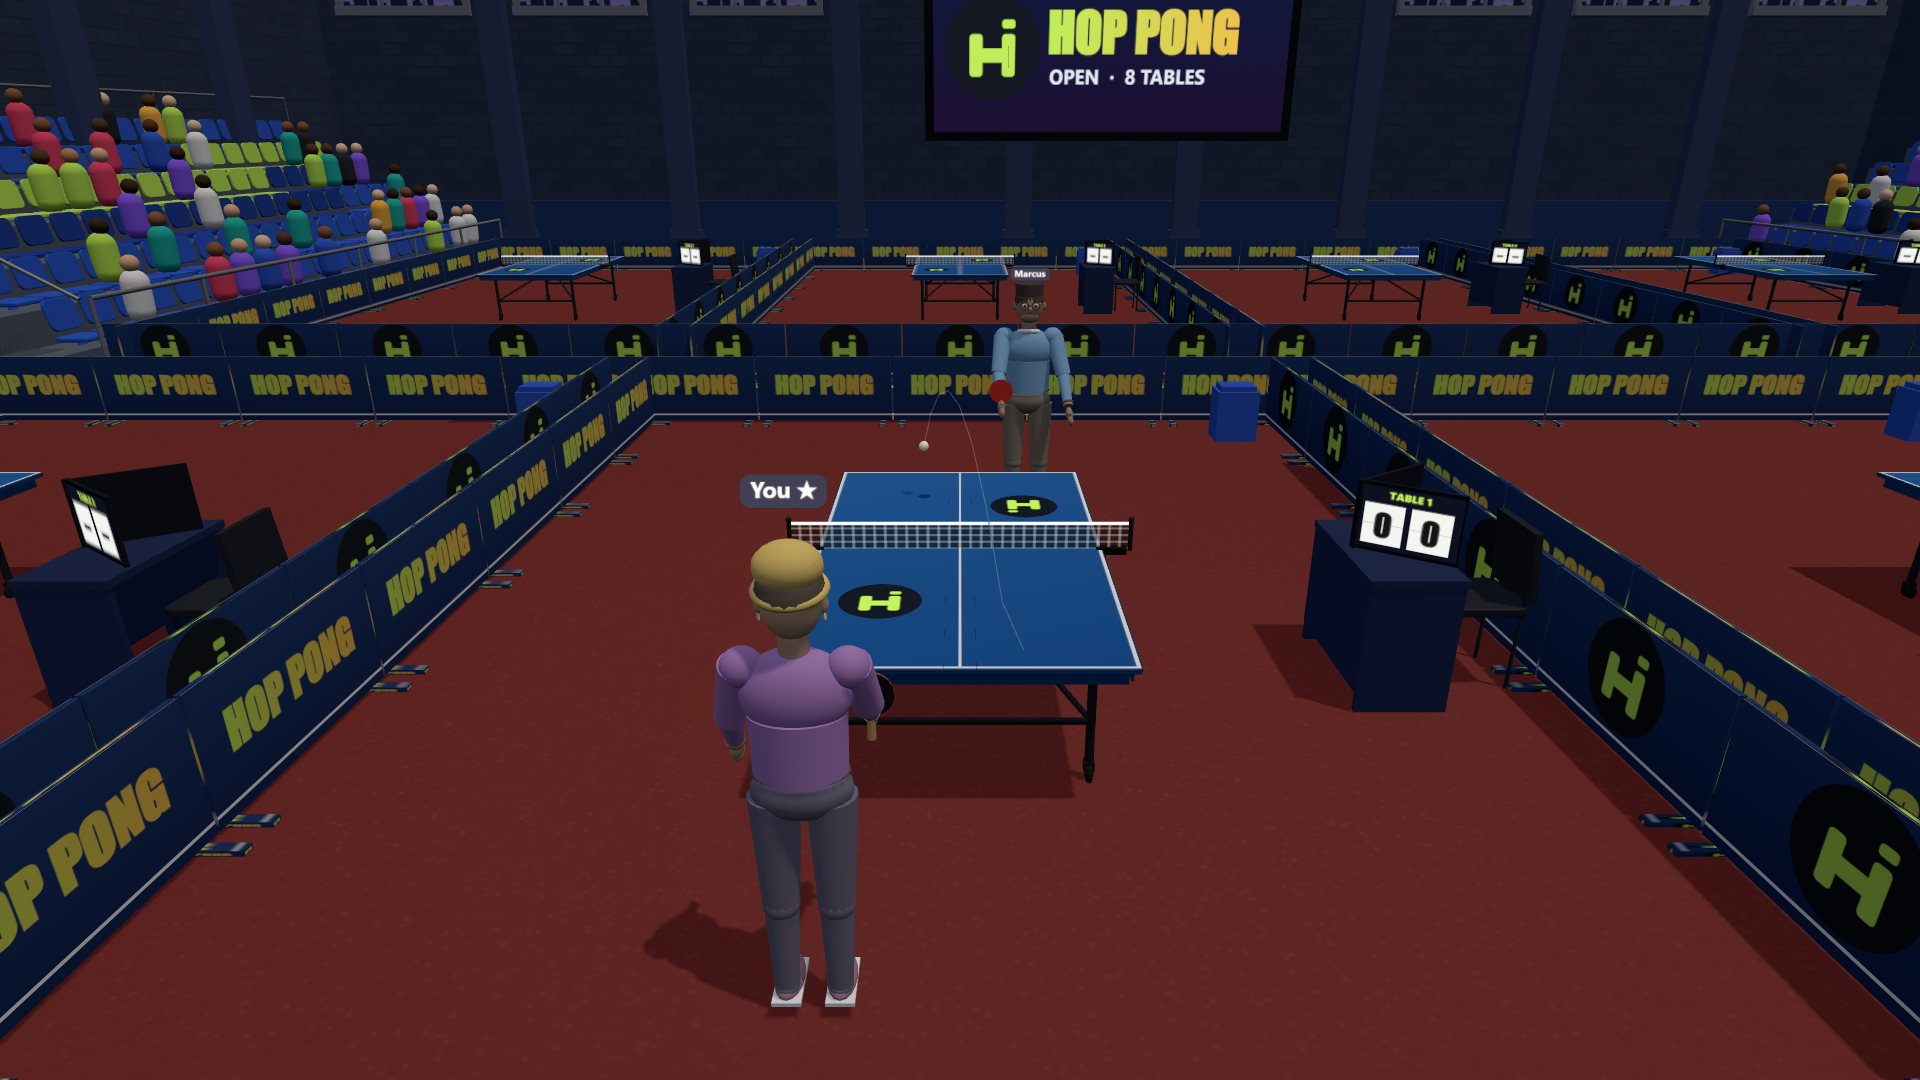
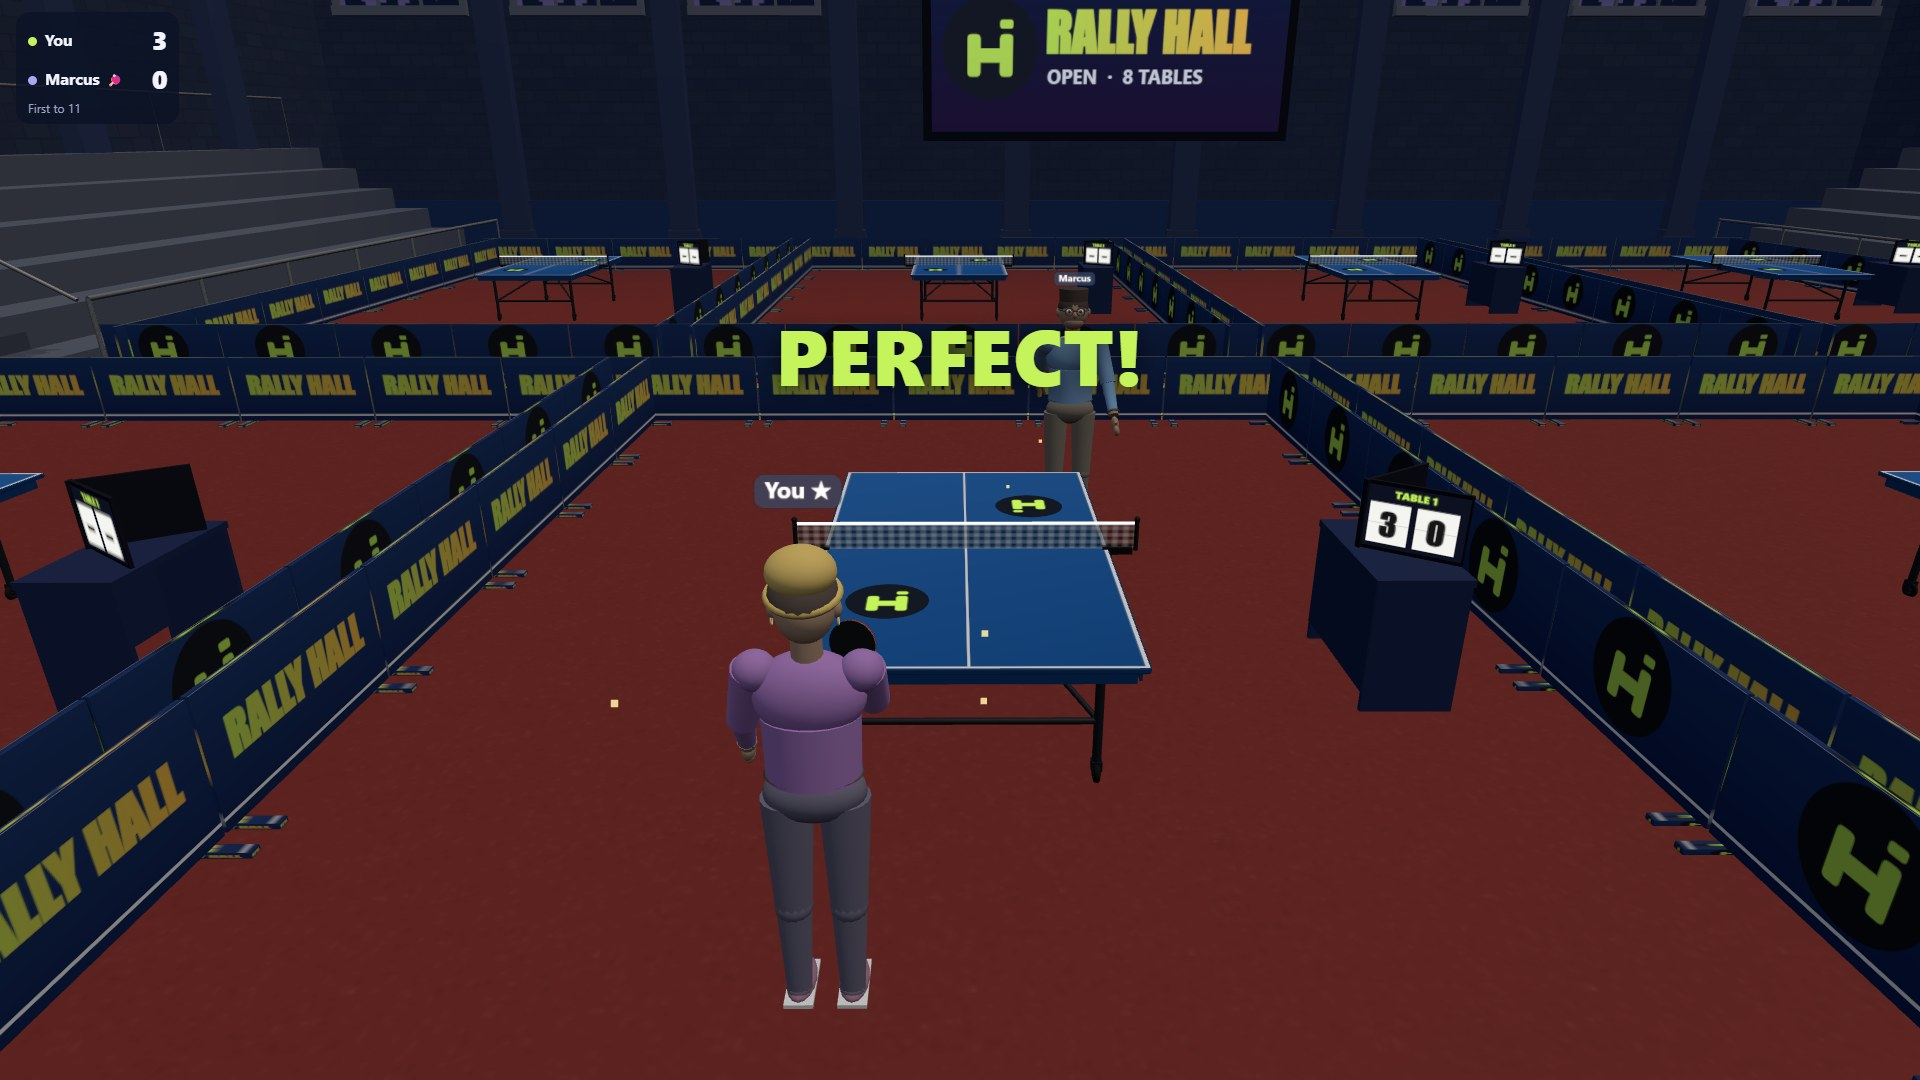
HopLobby 1.7 compliance: endGame results (HopLobby runs the rematch), no own play-again, new cover and screenshots

diff --git a/src/game.js b/src/game.js
@@ -162,7 +162,7 @@ export class Session {
   // four in doubles, the computer filling the empty seats.
   begin() {
     if (!this.isHost) return;
-    this.begun = true;
+    this.begun = true; this.roundEnded = false;
     this.syncQueue();
     this.tables.forEach((tb) => this.clearTable(tb));
     if (this.opts.mode === "tournament") {
@@ -202,6 +202,36 @@ export class Session {
     const tbs = this.tables.filter((tb) => tb.setup);
     tbs.forEach((tb) => { tb.match = null; tb.ui = { ph: "done" }; this.cb.onUi && this.cb.onUi(tb.ui, tb.n); });
     this.broadcastFull();
+    this.endRound();
+  }
+
+  // HopLobby runs the rematch (platform rule): when every game of the round is over the host hands
+  // the results to the app (main.js calls HopLobby.endGame), and HopLobby opens its rematch window.
+  // A round is a tournament, or one game at each table that's in use.
+  endRound() {
+    if (this.roundEnded || !this.isHost) return;
+    this.roundEnded = true;
+    const entries = [];
+    if (this.tour) {
+      const rounds = T.roundsOf(this.tour).length;
+      this.tour.draw.forEach((e) => {
+        if (!e.human || !e.id) return;
+        const r = T.eliminated(this.tour, e.id);
+        const champ = this.tour.champion === e.id;
+        entries.push({ playerId: e.id, place: champ ? 1 : 2 + (rounds - 1 - Math.max(0, r)), label: champ ? "Champion" : undefined });
+      });
+    } else {
+      this.tables.forEach((tb) => {
+        const res = tb.ui && tb.ui.res;
+        if (!res) return;
+        res.seats.forEach((s) => {
+          if (!s.id) return;
+          const won = s.seat[0] === res.winner;
+          entries.push({ playerId: s.id, place: won ? 1 : 2, score: res.sc[s.seat[0] === "p" ? 0 : 1], label: won ? "Won" : "Lost" });
+        });
+      });
+    }
+    this.cb.onRoundEnd && this.cb.onRoundEnd(entries);
   }
 
   setUi(tb, ui) {
@@ -276,6 +306,8 @@ export class Session {
       evs.forEach((e) => tb.evBuf.push(this.packEvent(e)));
       this.handleEvents(tb, evs);
     }
+    // A casual round is over once every table's game has finished.
+    if (!this.tour && !this.roundEnded && !this.playing() && this.tables.some((tb) => tb.ui.ph === "result")) this.endRound();
     this.sendT += dt;
     if (this.sendT >= SEND_EVERY) { this.sendT = 0; this.sendSnapshot(); }
     this.noteLeavers();

diff --git a/src/main.js b/src/main.js
@@ -187,7 +187,7 @@ function onUi(ui, n) {
   if (n !== undefined && n !== S.focus().n) return;
   state.lastUi = ui;
   const mySide = S.mySeat() ? side(S.mySeat()) : null;
-  HUD.overlays(ui, { mySide, myId: S.net.me, tour: S.tour, busy: S.playing() });
+  HUD.overlays(ui, { mySide, myId: S.net.me, tour: S.tour, busy: S.playing(), managed: !!state.managed });
   Input.enabled = !ui || ui.ph === "play";
   if (ui && ui.ph === "result") A.music("results"); else A.music("play");
 }
@@ -308,11 +308,15 @@ async function boot() {
   // The session
   const o = ctx.options || defaults;
   const solo = o.play === "solo";
+  const managed = !!HL && !solo && !ctx.standalone;   // HopLobby runs the rematch
   const net = solo ? makeSoloNet(ctx) : makeNet(ctx);
   const S = state.S = new Session(net, { mode: o.mode || "singles", target: +o.points || 11, ai: o.ai || "rising" }, {
     onEvent, onUi,
-    onSetup: (setup, fresh, n) => buildPeople(setup, fresh, n)
+    onSetup: (setup, fresh, n) => buildPeople(setup, fresh, n),
+    // The round is over: HopLobby shows the results and runs the rematch (not in solo: each solo player has their own game).
+    onRoundEnd: (entries) => { if (managed && HL.isHost && entries.length) { try { HL.endGame({ title: "Rally Hall", entries }); } catch (err) { console.warn("endGame", err); } } }
   });
+  state.managed = managed;
   S.net = net;
   Input.init($("view"), $("swipe"), (intent) => { A.unlock(); S.swing(intent); });
   window.addEventListener("pointerdown", () => { A.unlock(); A.music("play"); }, { once: true });

diff --git a/src/hud.js b/src/hud.js
@@ -54,7 +54,8 @@ HUD.overlays = function (ui, ctx) {
     const rowC = row(r.seats.filter((s) => s.seat[0] === "c").map((s) => s.name).join(" & "), r.sc[1], r.winner === "c");
     $("resBody").append(rowP, rowC);
     $("resAgain").textContent = t("again"); $("resLeave").textContent = t("leave");
-    $("resAgain").hidden = false;
+    // Inside a HopLobby lobby the rematch is HopLobby's (platform rule): no play-again of our own.
+    $("resAgain").hidden = !!ctx.managed;
     rs.hidden = false;
   } else if ((ui.ph === "bracket" || ui.ph === "done") && ctx.tour) {
     const tour = ctx.tour;
@@ -85,7 +86,7 @@ HUD.overlays = function (ui, ctx) {
     const others = ui.ph === "bracket" && ctx.busy > 0;
     $("brNote").textContent = ui.ph === "done" ? (tour.champion === ctx.myId ? t("youChamp") : "") : others ? t("othersPlaying", ctx.busy) : (out ? t("eliminated") : mine ? "" : "");
     $("brGo").textContent = ui.ph === "done" ? t("again") : t("continue");
-    $("brGo").hidden = others;
+    $("brGo").hidden = others || (ui.ph === "done" && !!ctx.managed);
     br.hidden = false;
   }
 };
